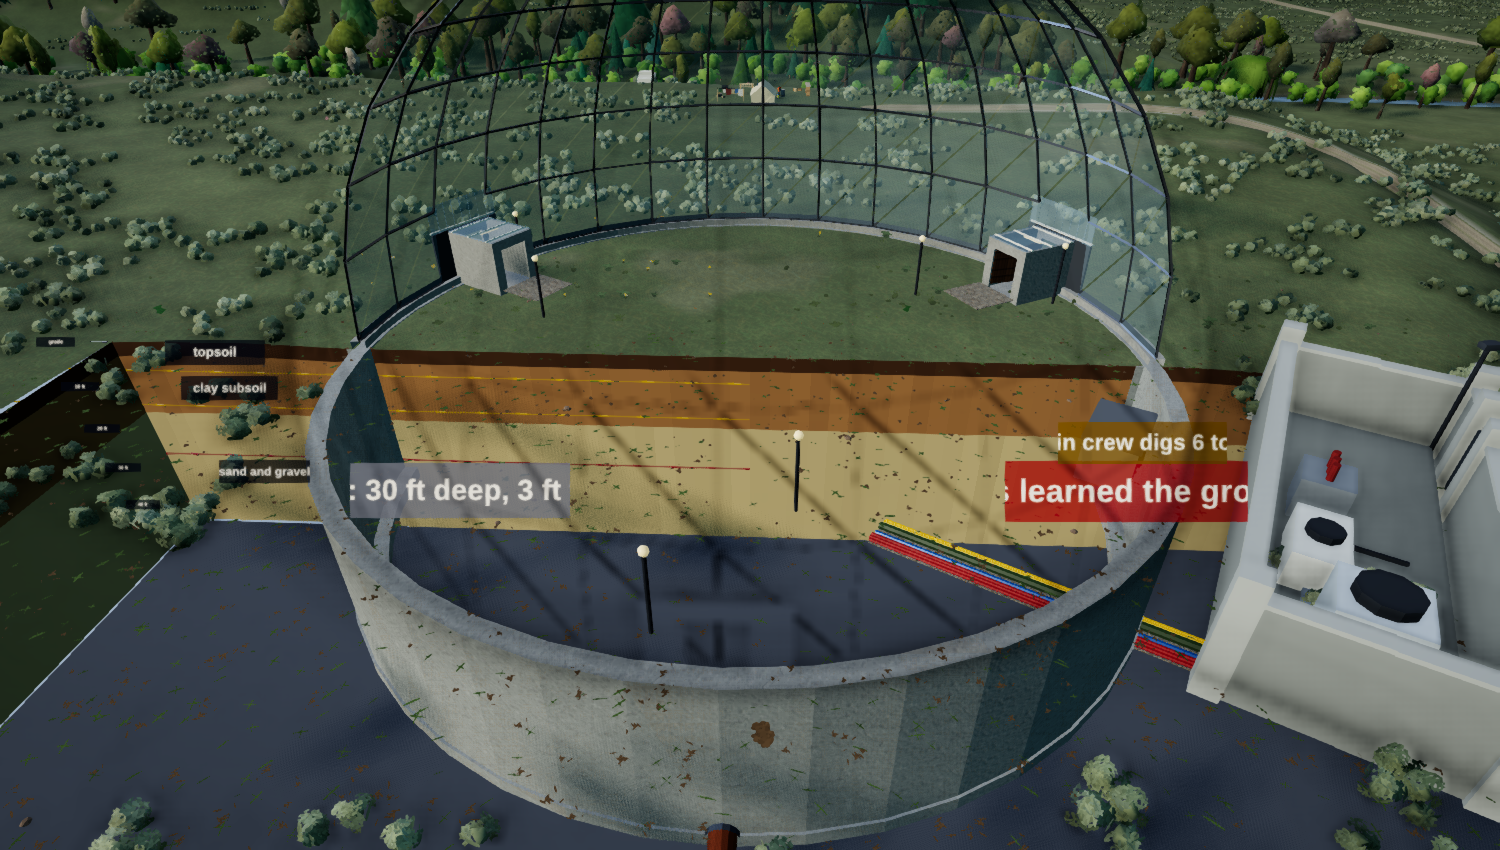
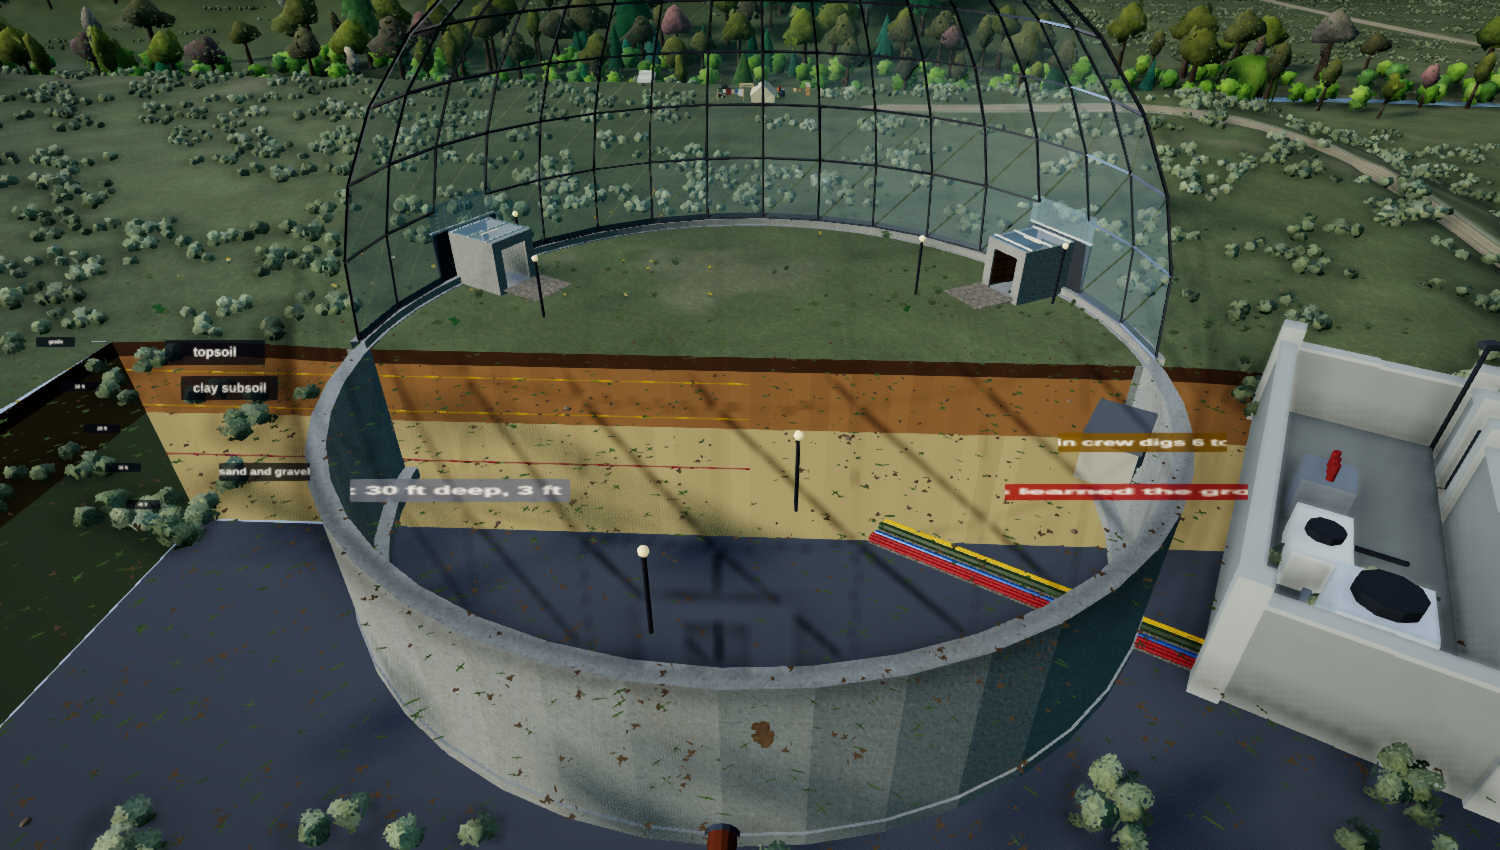
section label canvas wide enough

diff --git a/src/game/buildkit/domeDig.ts b/src/game/buildkit/domeDig.ts
@@ -449,7 +449,7 @@ export function disposeSite(g: THREE.Object3D): void {
 export const SECTION_LEN = 14;
 export interface SectionOpts { tier: DomeTier; cells: number; ground: Ground; sensors?: number }
 const rulerTex = new Map<string, THREE.Texture>();
-function label(text: string, w = Math.max(256, text.length * 21), h = 64, fg = '#f6efe0', bg = 'rgba(20,28,40,0.78)'): THREE.Texture {
+function label(text: string, w = Math.max(256, text.length * 27), h = 64, fg = '#f6efe0', bg = 'rgba(20,28,40,0.78)'): THREE.Texture {
   const key = `${text}|${fg}|${bg}|${w}`;
   let t = rulerTex.get(key);
   if (t) return t;
@@ -541,7 +541,7 @@ export function buildSection(o: SectionOpts): THREE.Group {
   const sprite = (text: string, x: number, y: number, z: number, w0 = 0.9, bg?: string): void => {
     const w = w0 * sc;
     const m = new THREE.SpriteMaterial({ map: label(text, 256, 64, '#f6efe0', bg), depthTest: false, transparent: true });
-    const sp = new THREE.Sprite(m); sp.scale.set(w, w * 64 / Math.max(256, text.length * 21), 1); sp.position.set(x, y, z); sp.renderOrder = 20; sp.userData.own = true; g.add(sp);
+    const sp = new THREE.Sprite(m); sp.scale.set(w, w * 64 / Math.max(256, text.length * 27), 1); sp.position.set(x, y, z); sp.renderOrder = 20; sp.userData.own = true; g.add(sp);
   };
   for (let ft = 10; ft <= D * FT_PER_UNIT + 1e-6; ft += ft < 50 ? 10 : 20) sprite(`${ft} ft`, rx - 0.52, rulerTop - ft / FT_PER_UNIT, 0.02, 0.55);
   sprite('grade', rx - 0.52, rulerTop, 0.02, 0.55);
